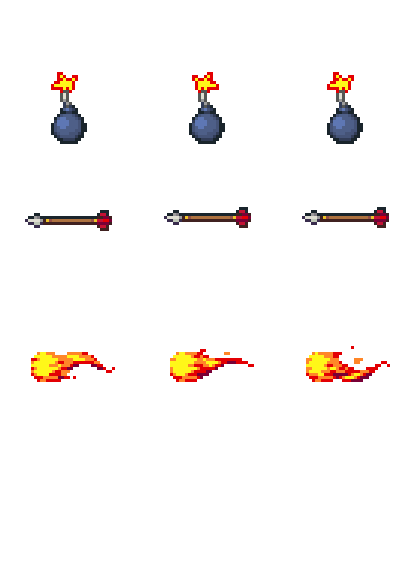
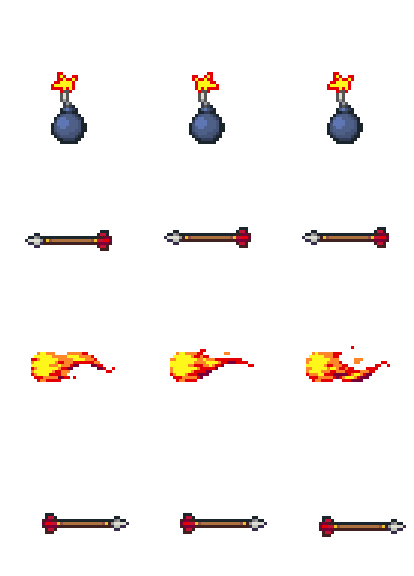
Add archer enemy type and logic

diff --git a/js/plugins/CombatLogic.js b/js/plugins/CombatLogic.js
@@ -12,6 +12,7 @@ Game_Combat.prototype.initialize = function(){
     this._mapScene = undefined;
     this._promptList = [];
     this._enemies = [];
+    this._arrows = [];
     this._promptWindows = [];
     this._enemySpawnIds = {
         "warrior_normal": 1,
@@ -35,6 +36,22 @@ Game_Combat.prototype.findEnemies = function(){
     this._enemies = $gameMap.events().filter(ev => {
         return ev.event().note.includes(`<enemy>`);
     })
+}
+
+Game_Combat.prototype.findArrows = function(){
+    this._arrows = $gameMap.events().filter(ev => {
+        return ev.event().note.includes(`<arrow>`);
+    })
+    this._arrows.forEach(ev => {
+        ev.setIsArrow(true);
+    })
+    this.findEnemies();
+}
+
+Game_Combat.prototype.hasArrowCollidedWithEvent = function(eventId){
+    const arrowEvs = this._arrows;
+    const currentEv = $gameMap.event(eventId);
+    return arrowEvs.some(arrow => arrow.x === currentEv.x && arrow.y === currentEv.y);
 }
 
 Game_Combat.prototype.createPromptWindows = function(){
@@ -61,8 +78,17 @@ Game_Combat.prototype.destroyPromptWindow = function(prompt){
 
 Game_Combat.prototype.spawnEnemies = function(){
     // TODO: Create different enemy configurations!
-    Galv.SPAWN.event(1, "regions", [1], "terrain", false);
+    Galv.SPAWN.event(2, "regions", [3], "terrain", false);
+    Galv.SPAWN.event(1, "regions", [3, 2, 1], "terrain", false);
     this.findEnemies();
+    this.createPromptWindows();
+}
+
+Game_Combat.prototype.spawnArrow = function(enemyEventId){
+    const eventX = $gameMap.event(enemyEventId).x - 1;
+    const eventY = $gameMap.event(enemyEventId).y;
+    Galv.SPAWN.event(9, "xy", [eventX, eventY], "terrain", false);
+    this.findArrows();
     this.createPromptWindows();
 }
 
@@ -85,7 +111,6 @@ Game_Combat.prototype.getRandomPrompt = function(){
         const promptInitialLetters = currentEnemyPrompts.map(enemyPromptObj => {
             if(enemyPromptObj && enemyPromptObj.isAlive) return enemyPromptObj.prompt[0];
         });
-        console.log("Prompt initial letters", promptInitialLetters);
         const currentRawPrompts = currentEnemyPrompts.map(promptObj => promptObj.prompt);
         if(prompt && !currentRawPrompts.includes(prompt) && !promptInitialLetters.includes(prompt[0])){
             isUnique = true;

diff --git a/js/plugins/TypingEnemyEvent.js b/js/plugins/TypingEnemyEvent.js
@@ -17,6 +17,7 @@ Game_TypingEnemyEvent.prototype.initialize = function(mapId, eventId){
     this._currentPrompt = "";
     this._isAlive = true;
     this._isEnemyBeingDamaged = false;
+    this._isArrow = false;
 }
 
 Game_TypingEnemyEvent.prototype.hasPromptWindow = function(){
@@ -55,3 +56,11 @@ Game_TypingEnemyEvent.prototype.updatePattern = function() {
         this._pattern = (this._pattern + 1) % this.maxPattern();
     }
 };
+
+Game_TypingEnemyEvent.prototype.isArrow = function(){
+    return this._isArrow;
+}
+
+Game_TypingEnemyEvent.prototype.setIsArrow = function(arrow){
+    this._isArrow = arrow;
+}

diff --git a/js/plugins/TypingWindows.js b/js/plugins/TypingWindows.js
@@ -29,7 +29,7 @@ Window_TypingPrompt.prototype.update = function(){
     // Follow enemy based on name ID
     this.width = this.textWidth(this._initPrompt) + 25;
     this.x = (this._associatedEnemy.screenX() - this.width) + (this.width / 2);
-    this.y = this._associatedEnemy.screenY();
+    this.y = this._associatedEnemy.isArrow() ? this._associatedEnemy.screenY() - 40 : this._associatedEnemy.screenY();
 
 }
 
